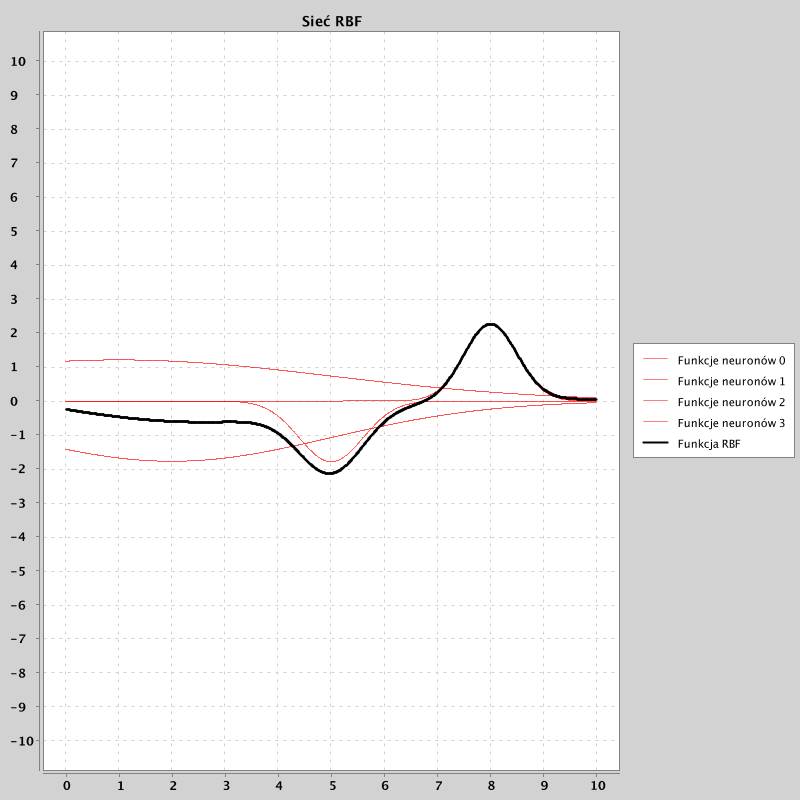
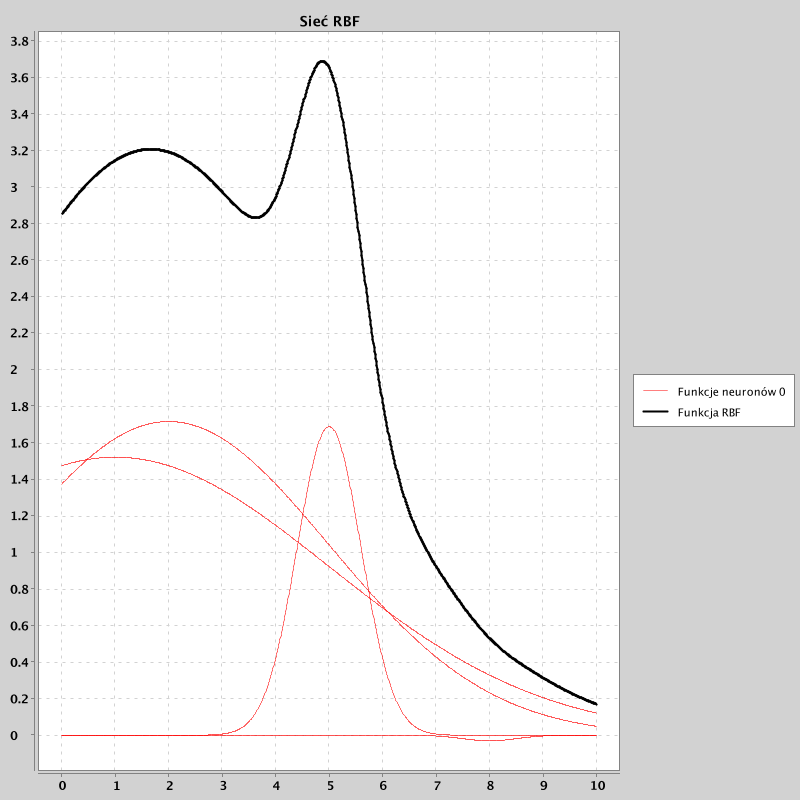
Make chart generation warmup specific

diff --git a/src/main/kotlin/warmups/Warmup.kt b/src/main/kotlin/warmups/Warmup.kt
@@ -4,7 +4,10 @@ import math.Point
 import math.Utils
 import network.Network
 import org.knowm.xchart.XYChart
+import org.knowm.xchart.XYChartBuilder
+import org.knowm.xchart.style.markers.SeriesMarkers
 import utils.Charts
+import java.awt.Color
 
 abstract class Warmup {
     protected fun plotNetwork(arguments: List<Double>, network: Network) : XYChart {
@@ -22,10 +25,36 @@ abstract class Warmup {
             )
         }
 
-        return Charts.createFirstWarmupChart(
+        return createChart(
             Pair(arguments, values),
             partials,
             "Sieć RBF"
         )
+    }
+
+    open fun createChart(
+        main : Pair<List<Double>, List<Double>>,
+        partials: List<Pair<List<Double>, List<Double>>>,
+        title: String
+    ): XYChart {
+        val chart =
+            XYChartBuilder()
+                .width(800)
+                .height(800)
+                .title(title).build()
+
+        for ( (idx, partial) in partials.withIndex()) {
+            val partialSeries = chart.addSeries("Funkcje neuronów $idx", partial.first, partial.second)
+            partialSeries.marker = SeriesMarkers.NONE
+            partialSeries.lineColor = Color.RED
+            partialSeries.lineWidth = 0.5f
+            partialSeries.isShowInLegend = idx == 0
+        }
+
+        val seriesData = chart.addSeries("Funkcja RBF", main.first, main.second)
+        seriesData.lineColor = Color.BLACK
+        seriesData.marker = SeriesMarkers.NONE
+
+        return chart
     }
 }

diff --git a/src/main/kotlin/ui/Charts.kt b/src/main/kotlin/ui/Charts.kt
@@ -3,45 +3,10 @@ package utils
 
 import org.knowm.xchart.BitmapEncoder
 import org.knowm.xchart.XYChart
-import org.knowm.xchart.XYChartBuilder
-import org.knowm.xchart.style.markers.SeriesMarkers
-import java.awt.Color
 
 
 class Charts {
     companion object {
-        fun createFirstWarmupChart(
-            main : Pair<List<Double>, List<Double>>,
-            partials: List<Pair<List<Double>, List<Double>>>,
-            title: String
-        ): XYChart {
-            val chart =
-                XYChartBuilder()
-                    .width(800)
-                    .height(800)
-                    .title(title).build()
-            //chart.styler.xAxisMin = 0.0
-            //chart.styler.xAxisMax = 10.0
-
-            //chart.styler.yAxisMin = -10.0
-            //chart.styler.yAxisMax = 10.0
-
-
-
-            for ( (idx, partial) in partials.withIndex()) {
-                val partialSeries = chart.addSeries("Funkcje neuronów $idx", partial.first, partial.second)
-                partialSeries.marker = SeriesMarkers.NONE
-                partialSeries.lineColor = Color.RED
-                partialSeries.lineWidth = 0.5f
-            }
-
-            val seriesData = chart.addSeries("Funkcja RBF", main.first, main.second)
-            seriesData.lineColor = Color.BLACK
-            seriesData.marker = SeriesMarkers.NONE
-
-            return chart
-        }
-
         fun saveChart(file: String, chart : XYChart) {
             BitmapEncoder.saveBitmap(
                 chart,

diff --git a/src/main/kotlin/warmups/Warmup1.kt b/src/main/kotlin/warmups/Warmup1.kt
@@ -3,7 +3,6 @@ package warmups
 import math.Point
 import math.Utils
 import network.Network
-import org.knowm.xchart.XYChart
 import utils.Charts
 
 class Warmup1 : Warmup() {
@@ -50,4 +49,10 @@ class Warmup1 : Warmup() {
 
         Charts.saveChart("out10", plotNetwork(arguments, network))
     }
+}
+
+fun main() {
+    val warmup = Warmup1()
+    warmup.taskK4()
+    warmup.taskK10()
 }
